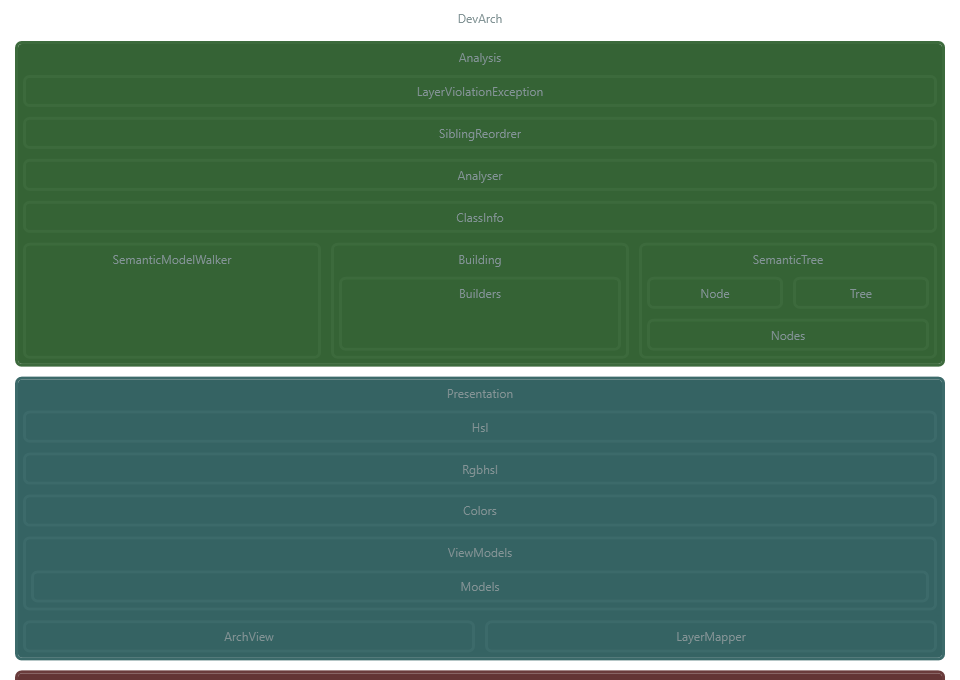
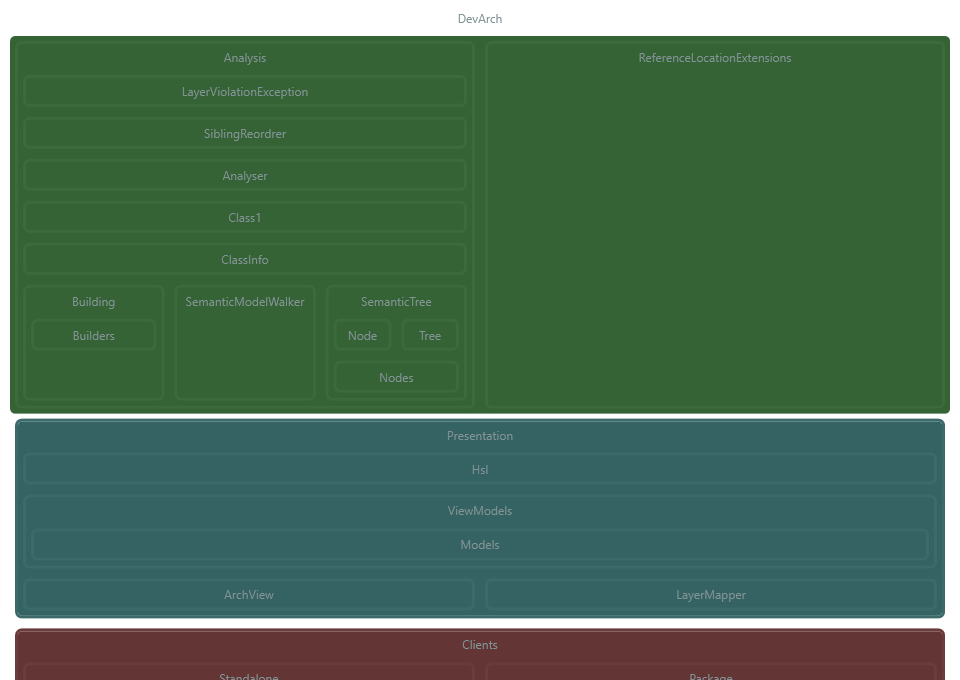
Finds deep ancestors and links them to parents

diff --git a/Presentation/LayerView.xaml b/Presentation/LayerView.xaml
@@ -16,10 +16,10 @@
         </Style>
     </UserControl.Resources>
 
-    <Border x:Name="Border" Width="Auto" Style="{StaticResource LayerBorderStyle}" Background="#002B36">
-        <DockPanel Width="Auto" >
-            <TextBlock x:Name="NameBlock"  HorizontalAlignment="Center" Width="Auto" Padding="5" Foreground="#839496" DockPanel.Dock="Top" Text="{Binding LayerName}"/>
-                <Grid x:Name="ChildHolder">
+    <Border x:Name="Border" Height="Auto" Width="Auto" Style="{StaticResource LayerBorderStyle}" Background="#002B36">
+        <DockPanel Width="Auto" Height="Auto">
+            <TextBlock x:Name="NameBlock" Height="Auto"  HorizontalAlignment="Center" Width="Auto" Padding="5" Foreground="#839496" DockPanel.Dock="Top" Text="{Binding LayerName}"/>
+            <Grid  Height="Auto"  x:Name="ChildHolder">
                 </Grid>
             </DockPanel>
         </Border>

diff --git a/Presentation/ArchView.xaml b/Presentation/ArchView.xaml
@@ -3,11 +3,10 @@
              xmlns:x="http://schemas.microsoft.com/winfx/2006/xaml"
              xmlns:mc="http://schemas.openxmlformats.org/markup-compatibility/2006"
              xmlns:d="http://schemas.microsoft.com/expression/blend/2008"
+             xmlns:presentation="clr-namespace:Presentation"
              mc:Ignorable="d"
              Name="MyToolWindow">
-    <Grid>
-        <StackPanel Orientation="Vertical" Name="MasterPanel" Margin="10,0" >
-            <TextBlock Margin="10" HorizontalAlignment="Center" Foreground="#839496">DevArch</TextBlock>
-        </StackPanel>
-    </Grid>
+    <StackPanel Orientation="Vertical" Height="Auto"  Name="MasterPanel" Margin="10,0" >
+        <TextBlock Margin="10" HorizontalAlignment="Center" Foreground="#839496">DevArch</TextBlock>
+    </StackPanel>
 </UserControl>

diff --git a/Standalone/MainWindow.xaml b/Standalone/MainWindow.xaml
@@ -9,5 +9,5 @@
         mc:Ignorable="d"
         Background="#001E26"
         Title="MainWindow" Height="Auto" Width="Auto">
-    <presentation:ArchView Name="ArchControl" HorizontalAlignment="Left" VerticalAlignment="Top" Height="Auto" Width="Auto" Margin="10,10,0,0"/>
+    <presentation:ArchView Name="ArchControl" HorizontalAlignment="Left" VerticalAlignment="Top" Height="Auto" Width="Auto"/>
 </Window>

diff --git a/Analysis/Building/SemanticTreeBuilder.cs b/Analysis/Building/SemanticTreeBuilder.cs
@@ -31,23 +31,24 @@ namespace Analysis.Building
             return node;
         }
 
-        public static IEnumerable<Node> BuildTreeFromClasses(IEnumerable<ClassInfo> classes)
+        /*public static IEnumerable<Node> BuildTreeFromClasses(IEnumerable<ClassInfo> classes)
         {
-            var groupedByLevel = classes.ToLookup(x => GetNameSpaceDepth(x.NameSpace), info => info);
+            var groupedByDepth = classes.ToLookup(x => GetDepth(x.Symbol), info => info);
             var topLevel = new List<Node>();
             var previousLevel = topLevel;
-            foreach (var classesInLevel in groupedByLevel.OrderBy(x => x.Key))
+            foreach (var classesInLevel in groupedByDepth.OrderBy(x => x.Key))
             {
                 var currentLevel = new List<Node>();
                 foreach (var @class in classesInLevel)
                 {
-                    var nspace = currentLevel.Find(x => x.Name == @class.NameSpace.Name);
+                    var nspace = currentLevel.Find(x => Equals(x.Symbol, @class.Symbol.ContainingSymbol))
+                        ;//?? previousLevel.Find(x => Equals(x.Symbol, @class.Symbol.ContainingSymbol));
                     if (nspace == null)
                     {
-                        nspace = new Node(@class.NameSpace);
+                        nspace = new Node(@class.Symbol.ContainingSymbol);
                         currentLevel.Add(nspace);
-                        var containedNamespace = @class.NameSpace.ContainingNamespace;
-                        if (containedNamespace != null)
+                        var containedNamespace = nspace.Symbol.ContainingSymbol;
+                        if (containedNamespace is INamespaceOrTypeSymbol)
                         {
                             var linkedNameSpace = previousLevel.Find(x => Equals(x.Symbol, containedNamespace));
                             if (linkedNameSpace == null)
@@ -67,15 +68,50 @@ namespace Analysis.Building
                 previousLevel = currentLevel;
             }
             return topLevel;
+        }*/
+
+        public static IEnumerable<Node> BuildTreeFromClasses(IEnumerable<ClassInfo> classes)
+        {
+            var all = new List<Node>();
+            var classList = classes.ToList();
+            for (var i = 0; i < classList.Count; i++)
+            {
+                var @class = classList[i];
+                FindParent(ref all, ref classList, @class.Symbol);
+            }
+            return all.Where(x => x.Parent == null);
         }
 
-        public static int GetNameSpaceDepth(INamespaceSymbol namespaceSymbol)
+        private static Node FindParent(ref List<Node> all, ref List<ClassInfo> classList, ISymbol symbol)
         {
-            if (namespaceSymbol.IsGlobalNamespace)
-                return 0;
-            if (namespaceSymbol.ContainingNamespace != null)
-                return 1 + GetNameSpaceDepth(namespaceSymbol.ContainingNamespace);
-            return namespaceSymbol.Name.Count(x=> x == '.');
+            var node = all.Find(x => Equals(x.Symbol, symbol));
+            if (node != null)
+                return node;
+            var classInfo = classList.FirstOrDefault(x => Equals(x.Symbol, symbol));
+            if (classInfo != null)
+            {
+                node = new Node(classInfo);
+            }
+            else
+            {
+                node = new Node(symbol);
+            }
+            all.Add(node);
+            if (symbol.ContainingSymbol is INamespaceOrTypeSymbol)
+            {
+                var parent = FindParent(ref all, ref classList, symbol.ContainingSymbol);
+                parent.AddChild(node);
+                return node;
+            }
+
+            return node;
+        }
+
+        public static int GetDepth(ISymbol symbol)
+        {
+            if (symbol.ContainingSymbol is INamespaceOrTypeSymbol)
+                return 1 + GetDepth(symbol.ContainingSymbol);
+            return symbol.Name.Count(x=> x == '.');
         }
     }
 }

diff --git a/Analysis.Tests/AnalyserTests.cs b/Analysis.Tests/AnalyserTests.cs
@@ -86,6 +86,38 @@ namespace Analysis.Tests
         }
 
         [TestMethod]
+        [TestCategory("ModelBuilder")]
+        public void FindsClassesOnDifferentLevels2()
+        {
+            using (var fakeWorkspace = new AdhocWorkspace())
+            {
+                var project = fakeWorkspace.AddProject("ProjectA", LanguageNames.CSharp);
+                fakeWorkspace.AddDocument(project.Id, "DocumentA.cs", SourceText.From("namespace NamespaceA {namespace GUI {class GuiFacade {}}}"));
+                fakeWorkspace.AddDocument(project.Id, "DocumentB.cs", SourceText.From("namespace NamespaceA {namespace GUI {namespace Buttons { namespace Purple {class Button {}}}}}"));
+                var tree = new Tree();
+                Analyser.AnalyzeSolutionToTree(fakeWorkspace.CurrentSolution, ref tree);
+                Assert.IsNotNull(tree.Childs.WithName("GuiFacade"));
+                Assert.IsNotNull(tree.Childs.WithName("Button"));
+            }
+        }
+
+
+        [TestMethod]
+        [TestCategory("ModelBuilder")]
+        public void PutsNestedClassesInsideHolderClass()
+        {
+            using (var fakeWorkspace = new AdhocWorkspace())
+            {
+                var project = fakeWorkspace.AddProject("ProjectA", LanguageNames.CSharp);
+                fakeWorkspace.AddDocument(project.Id, "DocumentB.cs", SourceText.From("namespace NamespaceA { class ClassA { class ClassB {}}}" +
+                                                                                      "namespace NamespaceA { class classC {} }"));
+                var tree = new Tree();
+                Analyser.AnalyzeSolutionToTree(fakeWorkspace.CurrentSolution, ref tree);
+                Assert.IsTrue(tree.Childs.First().Name == "ClassB");
+            }
+        }
+
+        [TestMethod]
         public void DependenciesAreConvertedToSiblingsIfAvailible()
         {
             var root = new Node("R");

diff --git a/Analysis.Tests/Building/SemanticTreeBuilderTests.cs b/Analysis.Tests/Building/SemanticTreeBuilderTests.cs
@@ -1,0 +1,32 @@
+using System.Collections.Generic;
+using System.Linq;
+using Analysis.Building;
+using Analysis.SemanticTree;
+using Microsoft.CodeAnalysis;
+using Microsoft.CodeAnalysis.Text;
+using Microsoft.VisualStudio.TestTools.UnitTesting;
+
+namespace Analysis.Tests.Building
+{
+    [TestClass]
+    public class SemanticTreeBuilderTests
+    {
+        [TestMethod]
+        public void LinksAncestors()
+        {
+            using (var fakeWorkspace = new AdhocWorkspace())
+            {
+                var project = fakeWorkspace.AddProject("ProjectA", LanguageNames.CSharp);
+                fakeWorkspace.AddDocument(project.Id, "DocumentA.cs",
+                    SourceText.From(
+                        "namespace NamespaceA {class ClassOuter {}}" +
+                        "namespace NamespaceA {namespace NamespaceAA {class ClassA {}}}" +
+                        "namespace NamespaceA {namespace NamespaceAB {class ClassB {}}}"));
+                var tree = new Tree();
+                ProjectTreeBuilder.AddProjectsToTree(fakeWorkspace.CurrentSolution, ref tree);
+                ClassTreeBuilder.AddClassesToTree(fakeWorkspace.CurrentSolution, tree);
+                Assert.AreEqual(1,tree.Childs.First().Childs.Count);
+            }
+        }
+    }
+}

diff --git a/Presentation/LayerView.xaml.cs b/Presentation/LayerView.xaml.cs
@@ -15,6 +15,11 @@ namespace Presentation
         private readonly int _column;
         private readonly int _row;
 
+        public LayerView()
+        {
+            InitializeComponent();
+        }
+
         public LayerView(string name, Color backgroundColor, IEnumerable<LayerView> childs, int column, int row,bool visible,int columns,int rows)
         {
             InitializeComponent();
@@ -31,7 +36,7 @@ namespace Presentation
             }
 
             for (var i = 0; i < rows; i++)
-                ChildHolder.RowDefinitions.Add(new RowDefinition());
+                ChildHolder.RowDefinitions.Add(new RowDefinition() {Height = GridLength.Auto});
 
             for (var i = 0; i < columns; i++)
                 ChildHolder.ColumnDefinitions.Add(new ColumnDefinition());

diff --git a/Presentation/BitmapRenderer.cs b/Presentation/BitmapRenderer.cs
@@ -27,8 +27,9 @@ namespace Presentation
 
             control.GenerateDiagram(enviroment);
 
-            control.Measure(new Size(width, height));
-            control.Arrange(new Rect(new Size(width, height)));
+            var availableSize = new Size(width, height);
+            control.Measure(availableSize);
+            control.Arrange(new Rect(availableSize));
 
             var bmp = new RenderTargetBitmap(width, height, 96, 96, PixelFormats.Pbgra32);
 

diff --git a/Analysis.Tests/SiblingOrderTests.cs b/Analysis.Tests/SiblingOrderTests.cs
@@ -61,7 +61,7 @@ namespace Analysis.Tests
             CollectionAssert.Contains(anonymousLayer.Childs.ToArray(), c);
         }
 
-        [TestCategory("SiblingOrders")]
+        [TestCategory("SiblingOrder")]
         [TestMethod]
         public void PutsIndependentSiblingsIntoHorizontalLayer()
         {
